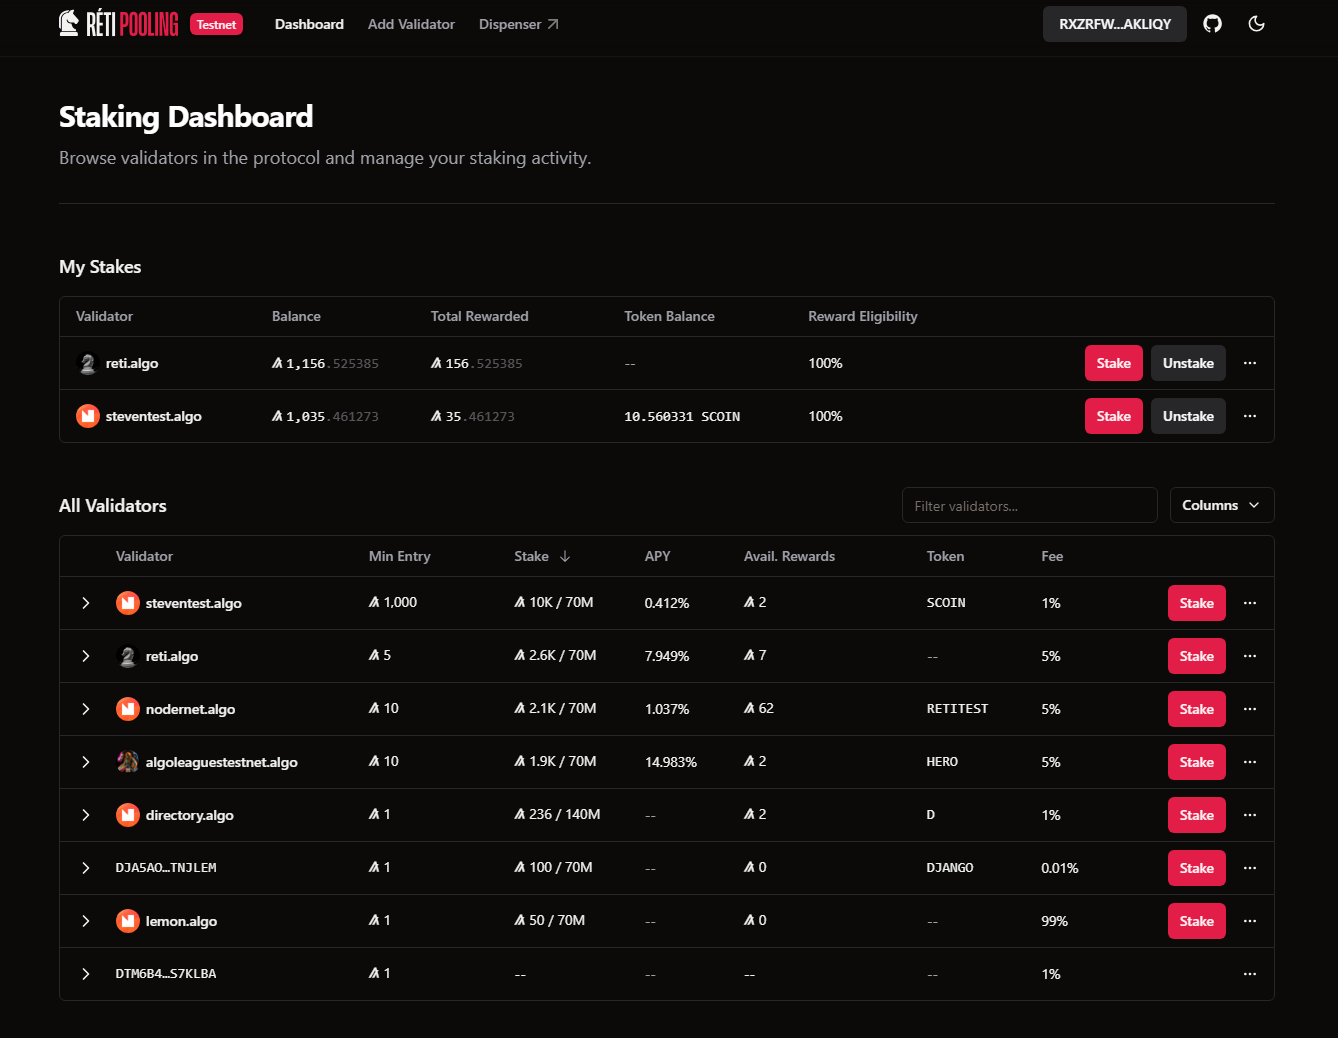
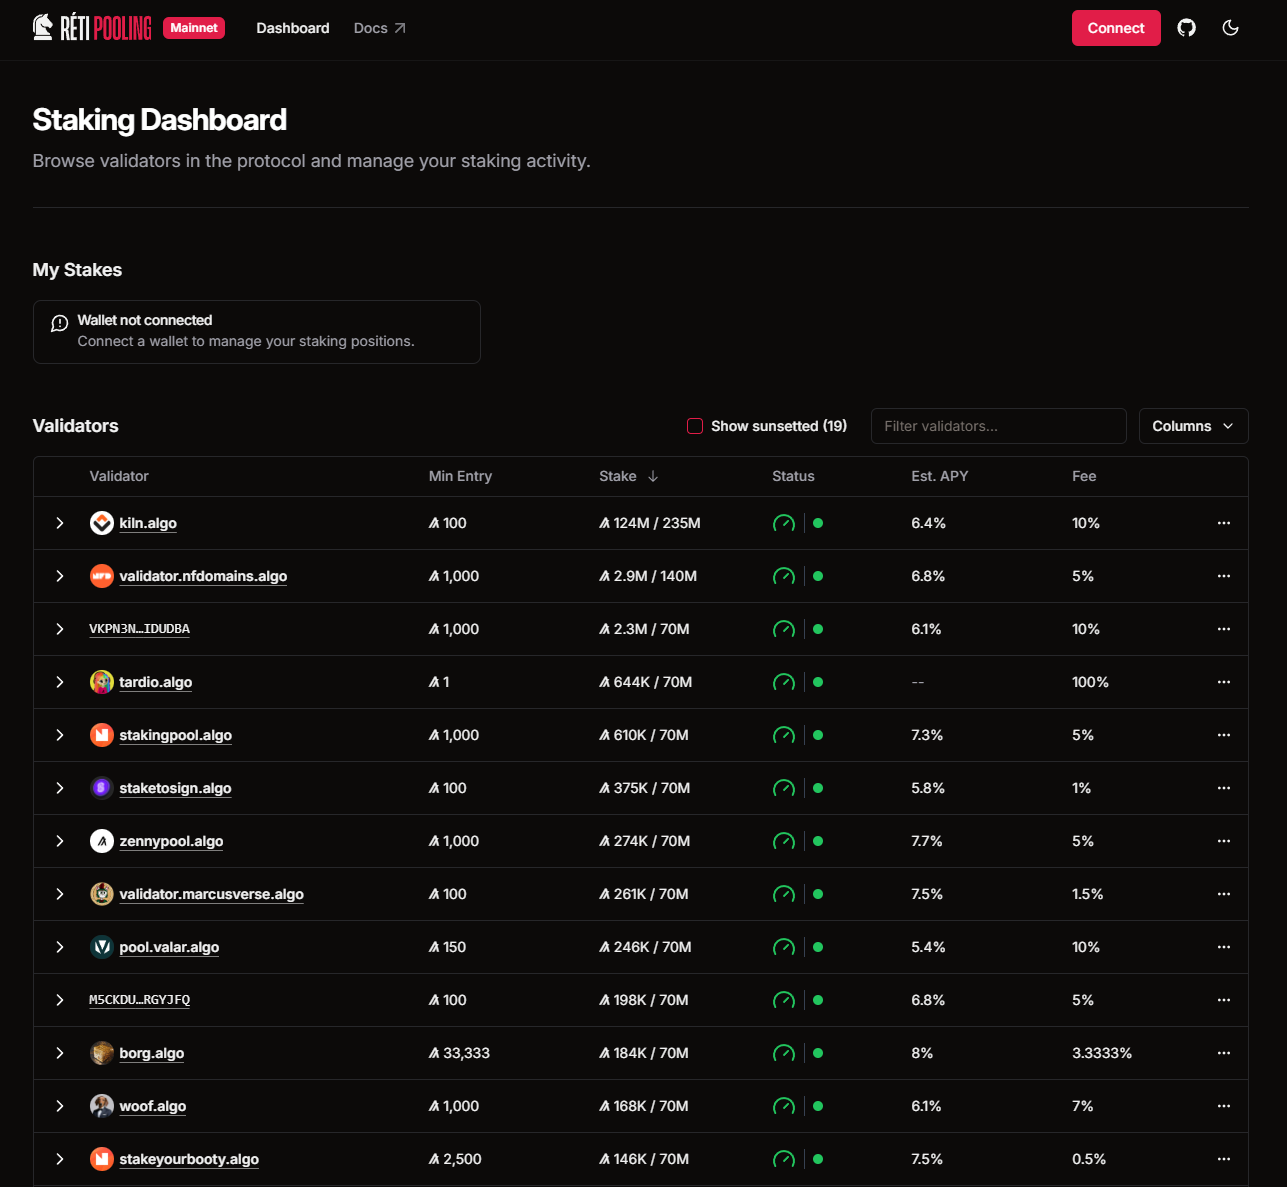
docs(gitbook): No subject

diff --git a/docs/getting-started/quick-start-for-stakers.md b/docs/getting-started/quick-start-for-stakers.md
@@ -1,30 +1,38 @@
 # Quick Start For Stakers
 
-The Staking Dashboard is where you can manage your stake in various validators.
+The Staking Dashboard is where you can manage your stake in various Validators and compare various Validators.
 
-<figure><img src="../.gitbook/assets/image (6).png" alt=""><figcaption><p>Staking Dashboard</p></figcaption></figure>
+<figure><img src="../.gitbook/assets/image (5).png" alt=""><figcaption><p>Dashboard</p></figcaption></figure>
 
-## Comparing Validators
+## **Comparing Validators**
 
 Validators are not all created equal! They can vary greatly in their performance, incentives, fees, payout frequency, and restrictions. It's important to do due diligence on each Validator before attempting to stake. These details can be found in the Validator details page, which can be navigated to by clicking the Validator's NFD or wallet address.
 
-**Performance**
+### **Status**
 
-If a node is slow and missing votes, those rewards are 'missed', resulting in a lower yield than if it was a healthy node participating with the same stake. Slow nodes are not 'doing their job' and so they aren't rewarded. The APY displayed is calculated on-chain and will reflect a Validator's past performance.
+In the Status column you will see the node's performance as well as the node daemon's performance.&#x20;
 
-**Incentives**
+If the node is performing poorly, you may be missing potential rewards, and this will result in a lower than expect APY. By hovering over the performance indicator you can see the estimated performance of the node. (this is still a work in progress and may not be 100% accurate)
 
-Some pools have extra token rewards distributed to stakers on top of the ALGO received from participating in consensus. If these extra rewards have any market value, these pools could be providing higher yield than pools without extra rewards. It's important to always do due diligence on any validator incentives.&#x20;
+If the node daemon isn't running, you will see a red circle in place of the green circle. This is to let stakers know that payouts aren't happening.
 
-**Fees**
+### **APY**
 
-Validators can set a commission rate which is paid out as a percentage of rewards every epoch. The record is stored in the Validator record and is immutable.
+The estimated APY column shows the estimated cumulative APY for the Validator. (this is still a work in progress and may not be 100% accurate)
 
-**Payout Frequency**
+### **Incentives**
 
-The frequency which epochs occur may effect the yield received due to txn fees and compounding returns.
+Some pools have extra token rewards distributed to stakers on top of the ALGO received from participating in consensus. If these extra rewards have any market value, these pools could be providing higher yield than pools without extra rewards. It's important to always do due diligence on any validator incentives.
 
-**Restrictions**
+### **Fees**
+
+Validators can set a commission rate which is paid out as a percentage of rewards every epoch. The record is stored in the Validator record and is **immutable**.
+
+### **Payout Frequency**
+
+The frequency which epochs occur may effect the yield received due to txn fees and compounding returns. Generally, the shorter the epoch the better from a stakers perspective, but not always.
+
+### **Restrictions**
 
 Validator's may have restrictions set on their pools including:
 
